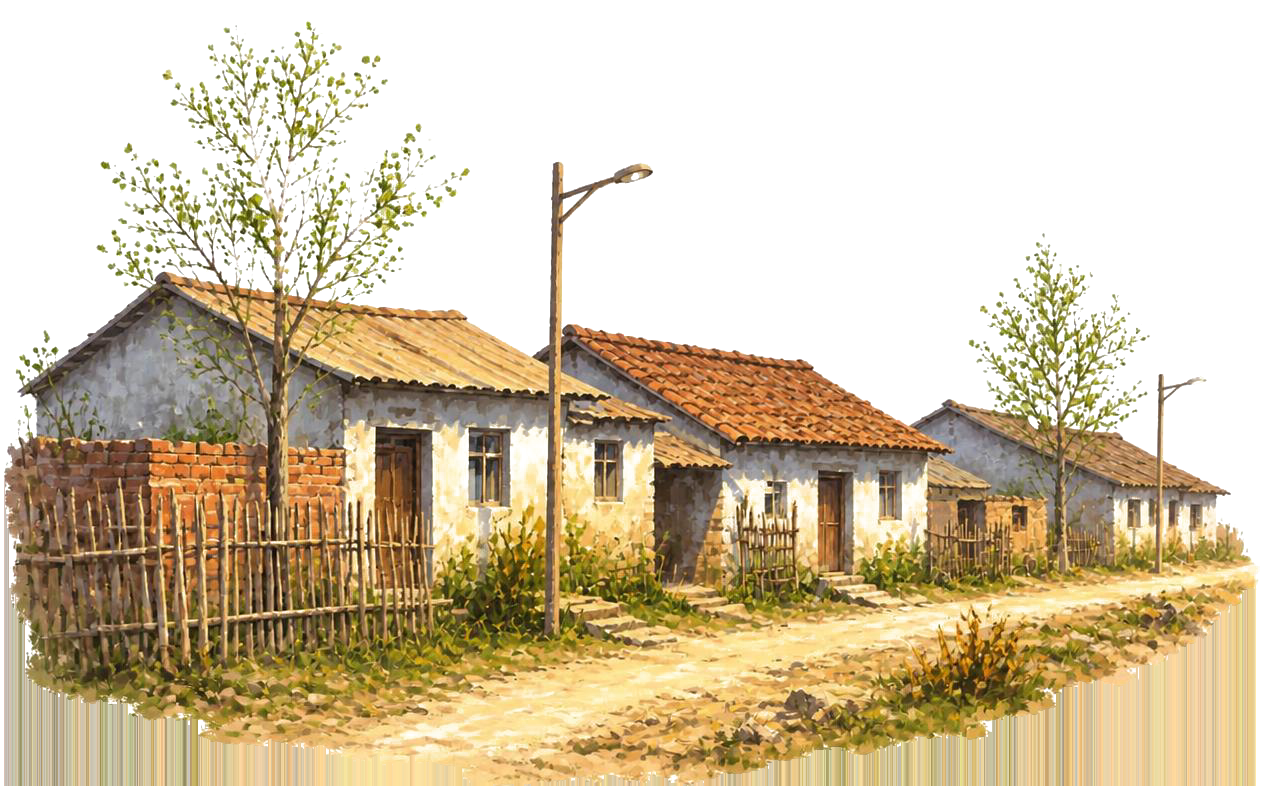
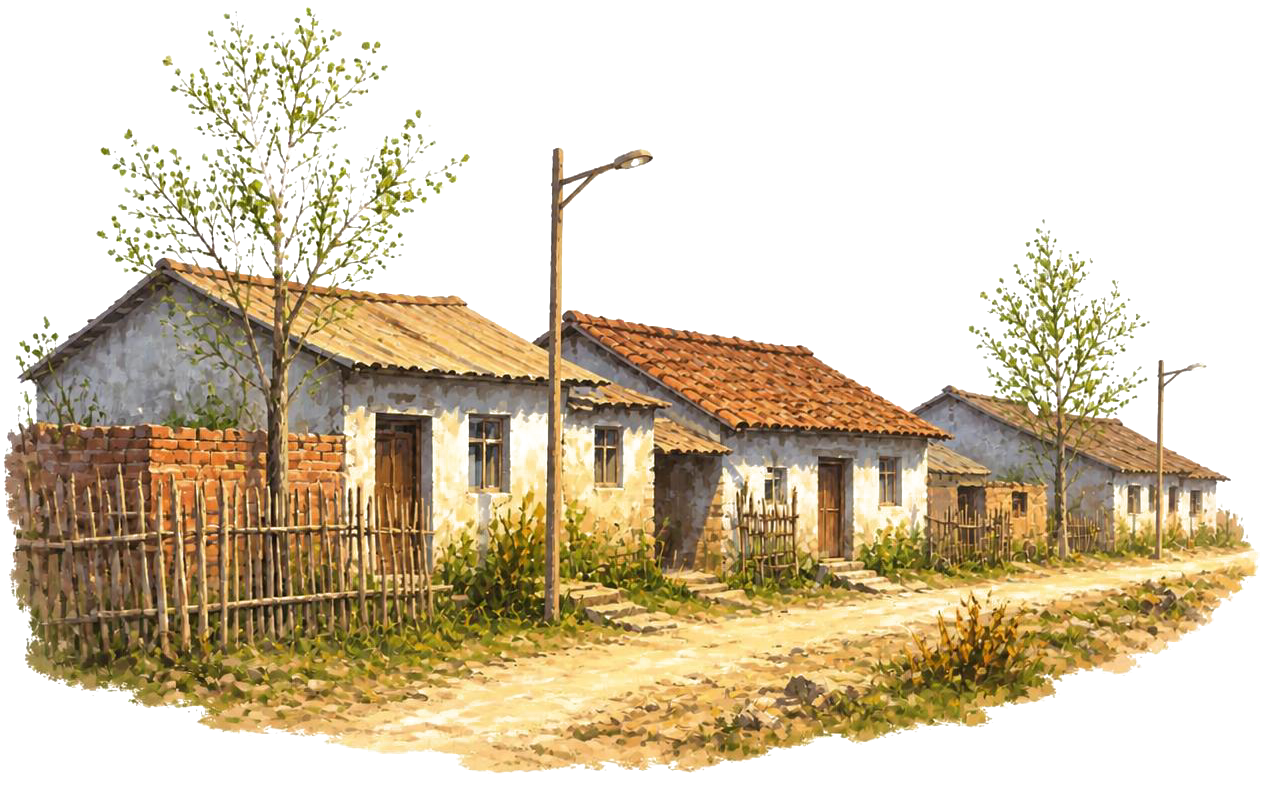
Undo bottom-bleed hack, fix via positioning; wheat, alignment, speed
- Revert the previous round's "bleed last opaque pixel to the crop
  edge" fix -- it produced visible streaking artifacts at the bottom
  of hills-village/main-village, which is worse than the gap it was
  meant to hide. Restored those four images to their pre-bleed state.
- Fix the exposed-background gap properly via positioning instead:
  main-village now settles a few vh below its natural bottom-anchored
  rest position (streetlights/houses/fences stay fully visible, but it
  covers whatever's below its own visible content).
- Measured the mountains source image directly: at the sun's
  horizontal position its opaque content starts only ~7.7% down the
  frame, and on a standard 16:9 laptop width the contain-box renders
  taller than the viewport itself -- so with no offset the peak sat
  above y=0 and hid the sun (and later the moon, which rests at the
  same height) entirely. Shifted mountains down enough to clear this,
  confirmed at an actual 1600x900 viewport, and trimmed its scale
  buffer since its pointer amplitude never needed the full 1.14x.
- Hills-village now moves noticeably faster than the mountains behind
  it on both scroll and cursor parallax, for a clearer depth cue.
- Regenerated the wheatfield with a deliberately irregular, jagged top
  edge (individual stalks at varying heights) instead of the flat
  cropped line from before, and denser packing.
- Regenerated main-village-night off main-village-day again with
[…]

diff --git a/src/components/village-parallax-scene.tsx b/src/components/village-parallax-scene.tsx
@@ -377,7 +377,18 @@ export function VillageParallaxScene() {
           <Image src="/images/parallax-moon.png" alt="" fill sizes="9vw" className="object-contain" />
         </div>
 
-        {/* mountains — farthest, barely moves, first to arrive */}
+        {/* mountains — farthest, barely moves, first to arrive. Measured
+            directly off the source PNG: at the sun's horizontal position
+            the peak's opaque content starts only ~7.7% down the image,
+            and on a standard 16:9 laptop width that box renders taller
+            than the viewport itself, so with no offset the peak reaches
+            well above y=0 and hides the sun (and later the moon, which
+            rests at the same height) behind it. Shifted down enough to
+            clear that, with a trimmed scale buffer (its pointer
+            amplitude is tiny, so it never needed the full 1.14x other
+            layers use) rather than an even larger shift. Moving the
+            mountains down, not the sun, keeps the sun's liked position
+            intact. */}
         <Layer
           entered={entered}
           z={2}
@@ -385,9 +396,9 @@ export function VillageParallaxScene() {
           entranceStyle={off(36)}
           enteredStyle={on}
           delayMs={0}
-          scrollY={assembleY(0, -3)}
+          scrollY={assembleY(26, 23)}
           pointerAmp={[4, 2]}
-          scaleBuffer={1.14}
+          scaleBuffer={1.04}
         >
           <DayNightPair
             day="/images/parallax-mountains-day.png"
@@ -416,8 +427,8 @@ export function VillageParallaxScene() {
           entranceStyle={off(36)}
           enteredStyle={on}
           delayMs={180}
-          scrollY={assembleY(2, -4)}
-          pointerAmp={[7, 3]}
+          scrollY={assembleY(4, -9)}
+          pointerAmp={[11, 5]}
           scaleBuffer={1.14}
         >
           <DayNightPair
@@ -432,18 +443,22 @@ export function VillageParallaxScene() {
 
         {/* main village + streetlights — starts below the viewport, not
             visible at all on load; arrives by moving up during phase A,
-            never by fading in */}
+            never by fading in. Settles a few vh below its natural
+            bottom-anchored spot on purpose: the streetlights/houses/
+            fences stay fully visible, but it covers whatever's below
+            the image's own visible content instead of leaving it
+            exposed at the true viewport edge. */}
         <div aria-hidden className="pointer-events-none absolute bottom-0 left-0 w-full" style={{ zIndex: 4 }}>
           <div
             className="origin-bottom scale-[1.14]"
-            style={{ transform: `translate3d(${pointer(20, 0).x}, calc(${assembleY(85, 0)} + ${pointer(20, 0).y}), 0)` }}
+            style={{ transform: `translate3d(${pointer(20, 0).x}, calc(${assembleY(85, 3)} + ${pointer(20, 0).y}), 0)` }}
           >
             <DayNightPair
               day="/images/parallax-main-village-day.png"
               night="/images/parallax-main-village-night.png"
-              dayDims={[1264, 786]}
-              nightDims={[1264, 786]}
-              box="aspect-[1264/786]"
+              dayDims={[1264, 791]}
+              nightDims={[1264, 791]}
+              box="aspect-[1264/791]"
               dropShadow
             />
           </div>
